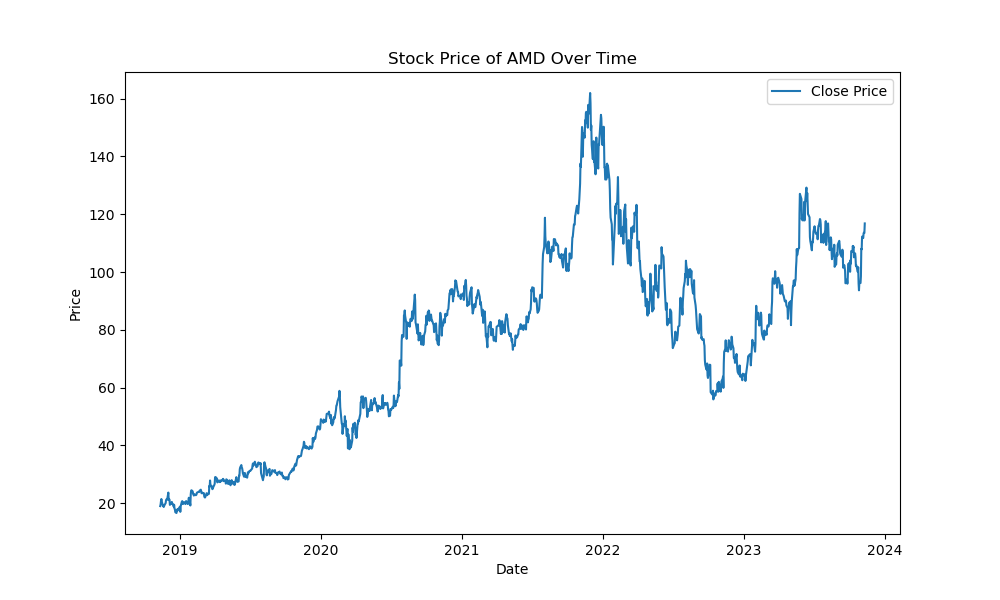
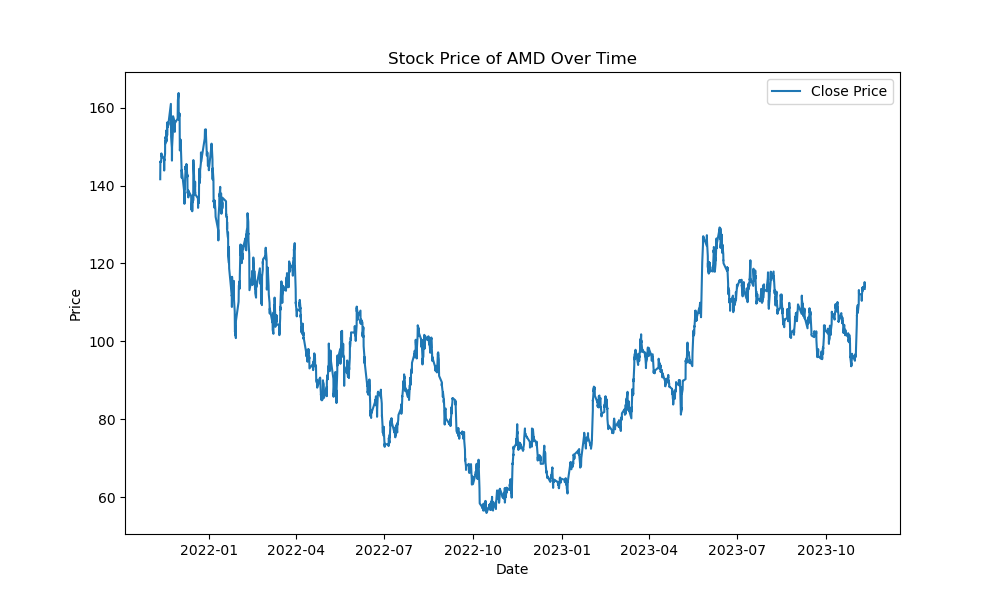
basics in place. ready for backtesting development next

diff --git a/Dev/trading_app/data/update_stock_data.py b/Dev/trading_app/data/update_stock_data.py
@@ -1,14 +1,35 @@
+# update_stock_data.py
+
 import os
 import sys
 import yfinance as yf
 import sqlite3
 import pandas as pd
-from datetime import datetime
+import datetime
+
+import datetime
 
 def fetch_data_from_yfinance(ticker, last_update_date):
-    period = "5y" if last_update_date is None else "max"
-    stock_data = yf.download(ticker, start=last_update_date, period=period)
+    max_days = 729  # yfinance maximum allowed days for hourly data
+    end_date = datetime.datetime.now()
+
+    if last_update_date is None:
+        start_date = end_date - datetime.timedelta(days=max_days)
+    else:
+        # Convert last_update_date from string to datetime
+        last_update_date = datetime.datetime.strptime(last_update_date, '%Y-%m-%d %H:%M:%S')
+        # Calculate days difference
+        days_diff = (end_date - last_update_date).days
+
+        if days_diff > max_days:
+            start_date = end_date - datetime.timedelta(days=max_days)
+        else:
+            start_date = last_update_date
+
+    interval = '1h'
+    stock_data = yf.download(ticker, start=start_date.strftime('%Y-%m-%d'), end=end_date.strftime('%Y-%m-%d'), interval=interval)
     return stock_data
+
 
 def update_database_with_data(conn, ticker_id, stock_data):
     insert_sql = """
@@ -23,37 +44,20 @@ def update_database_with_data(conn, ticker_id, stock_data):
     """
     stock_data.reset_index(inplace=True)
     for _, row in stock_data.iterrows():
-        # Debugging print statements
-        print(f"Ticker ID: {ticker_id}, Type: {type(ticker_id)}")
-        print(f"Row data: {row}, Type: {type(row)}")
-        print(f"Row 'Date': {row['Date']}, Type: {type(row['Date'])}")
-        print(f"Row 'Open': {row['Open']}, Type: {type(row['Open'])}")
-        print(f"Row 'High': {row['High']}, Type: {type(row['High'])}")
-        print(f"Row 'Low': {row['Low']}, Type: {type(row['Low'])}")
-        print(f"Row 'Close': {row['Close']}, Type: {type(row['Close'])}")
-        print(f"Row 'Volume': {row['Volume']}, Type: {type(row['Volume'])}")
-
-        try:
-            conn.execute(insert_sql, (
-                ticker_id,
-                row['Date'].strftime('%Y-%m-%d'),
-                row['Open'],
-                row['High'],
-                row['Low'],
-                row['Close'],
-                row['Volume']
-            ))
-        except Exception as e:
-            print(f"Error inserting data: {e}")
-            break
+        conn.execute(insert_sql, (
+            ticker_id,
+            row['Datetime'].strftime('%Y-%m-%d %H:%M:%S'),
+            row['Open'],
+            row['High'],
+            row['Low'],
+            row['Close'],
+            row['Volume']
+        ))
 
 def main(ticker):
-    # Get the directory of the current script
     script_dir = os.path.dirname(os.path.abspath(__file__))
-    # Join the directory path with the database filename
-    database_path = os.path.join(script_dir, "./trading_app.db") 
+    database_path = os.path.join(script_dir,"trading_app.db")
 
-    print(f"Connecting to database at {database_path}")
     conn = sqlite3.connect(database_path)
     last_update_query = """
         SELECT MAX(date) FROM prices WHERE stock_id = (
@@ -61,35 +65,28 @@ def main(ticker):
         )
     """
     cursor = conn.cursor()
-    print(f"Executing last update query for ticker: {ticker}")
     cursor.execute(last_update_query, (ticker,))
-    last_update_date = cursor.fetchone()[0]
-    print(f"Last update date for {ticker}: {last_update_date}")
+    last_update_result = cursor.fetchone()[0]
+    last_update_date = None if last_update_result is None else datetime.datetime.strptime(last_update_result, '%Y-%m-%d %H:%M:%S')
 
     stock_data = fetch_data_from_yfinance(ticker, last_update_date)
-    print(f"Fetched data for {ticker}: {stock_data}")
 
-    print(f"Retrieving ticker ID for {ticker}")
     cursor.execute("SELECT id FROM stocks WHERE symbol = ?", (ticker,))
     ticker_id = cursor.fetchone()
-    if ticker_id is not None:
-        ticker_id = ticker_id[0]
-    else:
-        print(f"Ticker {ticker} not found in database. Inserting new record.")
+    if ticker_id is None:
         conn.execute("INSERT INTO stocks (symbol) VALUES (?)", (ticker,))
         ticker_id = cursor.lastrowid
+    else:
+        ticker_id = ticker_id[0]
 
-    print(f"Updating database with data for ticker ID: {ticker_id}")
     update_database_with_data(conn, ticker_id, stock_data)
 
     conn.commit()
     conn.close()
-    print("Database update complete.")
 
 if __name__ == "__main__":
     if len(sys.argv) < 2:
         print("Usage: python update_stock_data.py <ticker>")
         sys.exit(1)
     ticker = sys.argv[1]
-    print(f"Starting update process for {ticker}")
     main(ticker)

diff --git a/Dev/trading_app/data/verify_stock_data.py b/Dev/trading_app/data/verify_stock_data.py
@@ -1,11 +1,13 @@
+# verify_stock_data.py
 import sqlite3
-import sys
 import os
 import matplotlib.pyplot as plt
 import pandas as pd
+import sys
 
 def check_ticker_data(ticker):
-    database_path = "./data/trading_app.db"  # Adjust the path to your database file
+    script_dir = os.path.dirname(os.path.abspath(__file__))
+    database_path = os.path.join(script_dir, "trading_app.db")
 
     # Connect to the SQLite database
     conn = sqlite3.connect(database_path)
@@ -13,9 +15,10 @@ def check_ticker_data(ticker):
 
     # Check if the ticker exists in the 'stocks' table and get its ID
     cursor.execute("SELECT id FROM stocks WHERE symbol = ?", (ticker,))
-    stock_id = cursor.fetchone()
-    if stock_id:
-        stock_id = stock_id[0]
+    stock_id_row = cursor.fetchone()
+
+    if stock_id_row:
+        stock_id = stock_id_row[0]
         print(f"Ticker {ticker} found with ID {stock_id}. Fetching data...")
 
         # Fetch all data from the 'prices' table for the given ticker ID
@@ -38,12 +41,11 @@ def check_ticker_data(ticker):
             plt.legend()
 
             # Save the plot
-            plot_path = os.path.join(os.path.dirname(database_path), f"{ticker}_stock_chart.png")
+            plot_path = os.path.join(script_dir, f"{ticker}_stock_chart.png")
             plt.savefig(plot_path)
             print(f"Stock chart saved to {plot_path}")
         else:
             print(f"No data found for ticker {ticker} in 'prices' table.")
-
     else:
         print(f"Ticker {ticker} not found in 'stocks' table.")
 

diff --git a/Dev/trading_app/data/db_setup.py b/Dev/trading_app/data/db_setup.py
@@ -1,3 +1,5 @@
+# db_setup.py
+
 import sqlite3
 import os
 import logging
@@ -7,7 +9,7 @@ logging.basicConfig(level=logging.INFO)
 logger = logging.getLogger(__name__)
 
 # Database configuration
-DATABASE_PATH = os.path.join("./data", "trading_app.db")
+DATABASE_PATH = os.path.join("data", "trading_app.db")
 SQL_CREATE_STOCKS_TABLE = """
     CREATE TABLE IF NOT EXISTS stocks (
         id INTEGER PRIMARY KEY,
@@ -77,10 +79,13 @@ def initialize_database():
             create_table(conn, SQL_CREATE_STOCKS_TABLE)
             create_table(conn, SQL_CREATE_PRICES_TABLE)
             logger.info("Tables created successfully.")
+            print("Created tables: stocks, prices")
         else:
             logger.info("Existing tables found. No need to create tables.")
+            print("Tables already exist: stocks, prices")
         print_tables_in_db(conn)
         conn.close()
+        print(f"Database path: {DATABASE_PATH}")
     else:
         logger.error("Unable to create or connect to the database.")
 
